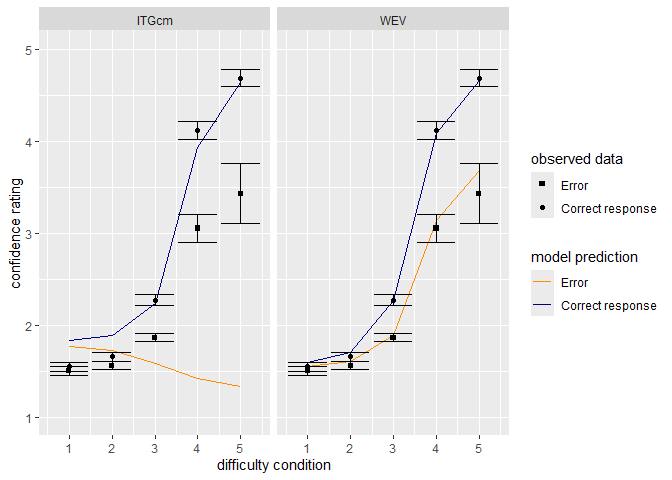
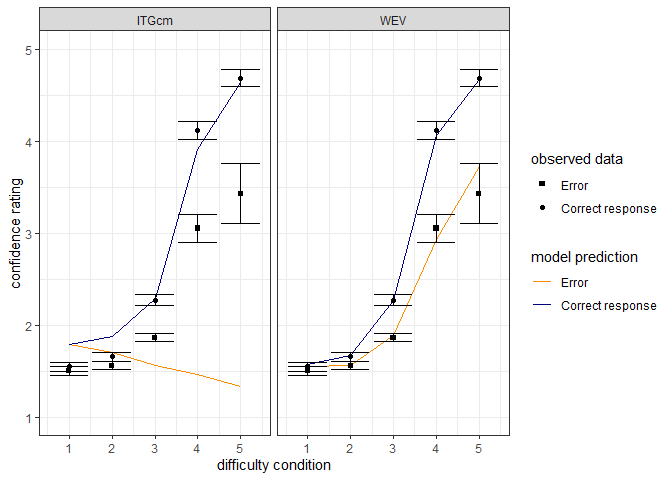
updated readme

diff --git a/README.md b/README.md
@@ -1,6 +1,6 @@
 The `statConfR` package provides functions to fit static models of
 decision-making and confidence derived from signal detection theory for
-binary discrimination tasks, meta-d′/d′, a wide-spread measure of
+binary discrimination tasks, meta-d′/d′, the most prominent measure of
 metacognitive efficiency, meta-I, an information-theoretic measures of
 metacognitive sensitivity, as well as $`meta-I_{1}^{r}`$ and
 $`meta-I_{2}^{r}`$, two information-theoretic measures of metacognitive
@@ -210,28 +210,31 @@ quantities of information theory.
 - Meta-I is a measure of metacognitive sensitivity defined as the mutual
   information between the confidence and accuracy and is calculated as
   the transmitted information minus the minimal information given the
-  accuracy,
-  ``` math
-  meta-I = I(Y; \hat{Y}, C) - I(Y; \hat{Y}).
-  ```
-  This is equivalent to Dayan’s formulation where meta-I is the
-  information that confidences transmit about the correctness of a
-  response:
-  ``` math
-  meta-I = I(Y = \hat{Y}; C)
-  ```
-- Meta-$`I_{1}^{r}`$ is meta-I normalized by the value of meta-I
-  expected assuming a signal detection model (Green & Swets, 1966) with
-  Gaussian noise, based on calculating the sensitivity index d’:
-  ``` math
-  meta-I_{1}^{r} = meta-I / meta-I(d')
-  ```
-- Meta-$`I_{2}^{r}`$ is meta-I normalized by its theoretical upper
-  bound, which is the information entropy of accuracy,
-  $`H(Y = \hat{Y})`$:
-  ``` math
-  meta-I_{2}^{r} = meta-I / H(Y = \hat{Y})
-  ```
+  accuracy:
+
+``` math
+meta-I = I(Y; \hat{Y}, C) - I(Y; \hat{Y})
+```
+This is equivalent to Dayan’s formulation where meta-I is the
+information that confidences transmit about the correctness of a
+response:
+
+``` math
+meta-I = I(Y = \hat{Y}; C)
+```
+ - Meta-$`I_{1}^{r}`$ is meta-I normalized by the value of meta-I
+expected assuming a signal detection model (Green & Swets, 1966) with
+Gaussian noise, based on calculating the sensitivity index d’:
+
+``` math
+meta-I_{1}^{r} = meta-I / meta-I(d')
+```
+ - Meta-$`I_{2}^{r}`$ is meta-I normalized by its theoretical upper
+bound, which is the information entropy of accuracy, $`H(Y = \hat{Y})`$:
+
+``` math
+meta-I_{2}^{r} = meta-I / H(Y = \hat{Y})
+```
 
 Notably, Dayan (2023) pointed out that a liberal or conservative use of
 the confidence levels will affected the mutual information and thus all
@@ -410,7 +413,8 @@ PlotMeans <-
                 aes(ymin = ratings-se, ymax = ratings+se), color="black") + 
   geom_point(data = AggregatedData, aes(shape=correct), color="black") + 
   scale_shape_manual(values = c(15, 16),
-                     labels = c("Error", "Correct response"), name = "observed data") 
+                     labels = c("Error", "Correct response"), name = "observed data") + 
+  theme_bw()
 ```
 
 <!-- Show both the code and the output Figure!  -->
@@ -463,12 +467,13 @@ r <- factor(ifelse(OneSbj$response == 0, -1, 1) * as.numeric(OneSbj$rating))
 counts <- table(y, r)
 ```
 
-Then, the different information-theoretic measures of metacognitive
-sensitivity and accuracy can be computed:
+Then, the different information-theoretic measures of metacognition can
+be computed:
 
 ``` r
+meta_I <- estimate_meta_I(counts)
 meta_Ir1 <- estimate_meta_Ir1(counts)
-meta_Ir1 <- estimate_meta_Ir1(counts)
+meta_Ir1_acc <- estimate_meta_Ir1_acc(counts)
 meta_Ir2 <- estimate_meta_Ir2(counts)
 RMI <- estimate_RMI(counts)
 ```
@@ -476,7 +481,7 @@ RMI <- estimate_RMI(counts)
 ### Documentation
 
 The documentation of each function of the currently installed version of
-`statConfR` can be accessed by typing ?*functionname* into the console.
+`statConfR` can be accessed by typing *?functionname* into the console.
 
 ## Contributing to the package
 
@@ -531,6 +536,8 @@ issue](https://github.com/ManuelRausch/StatConfR/issues).
 
 ## References
 
+- Dayan, P. (2023). Metacognitive Information Theory. Open Mind, 7,
+  392–411. <https://doi.org/10.1162/opmi_a_00091>
 - Fleming, S. M. (2017). HMeta-d: Hierarchical Bayesian estimation of
   metacognitive efficiency from confidence ratings. Neuroscience of
   Consciousness, 1, 1–14. <https://doi.org/10.1093/nc/nix007>
